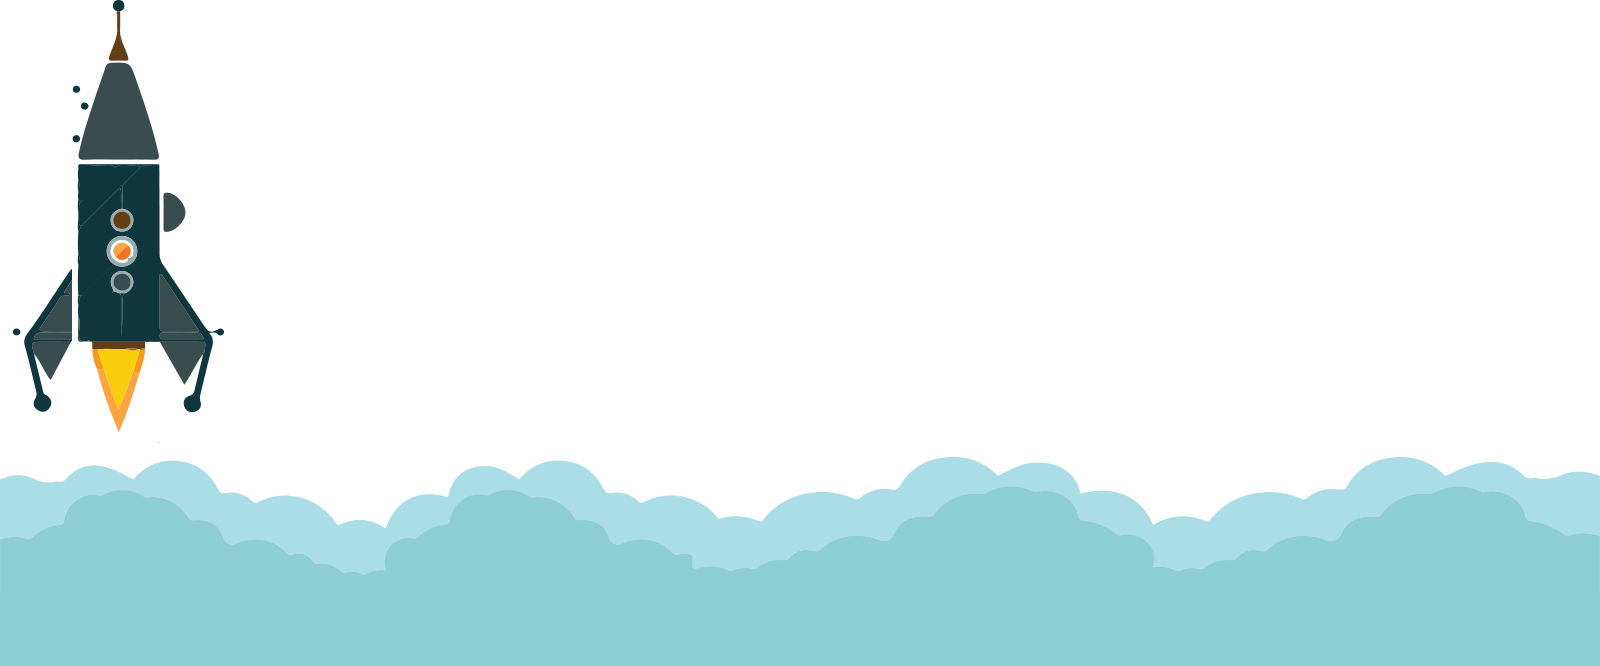
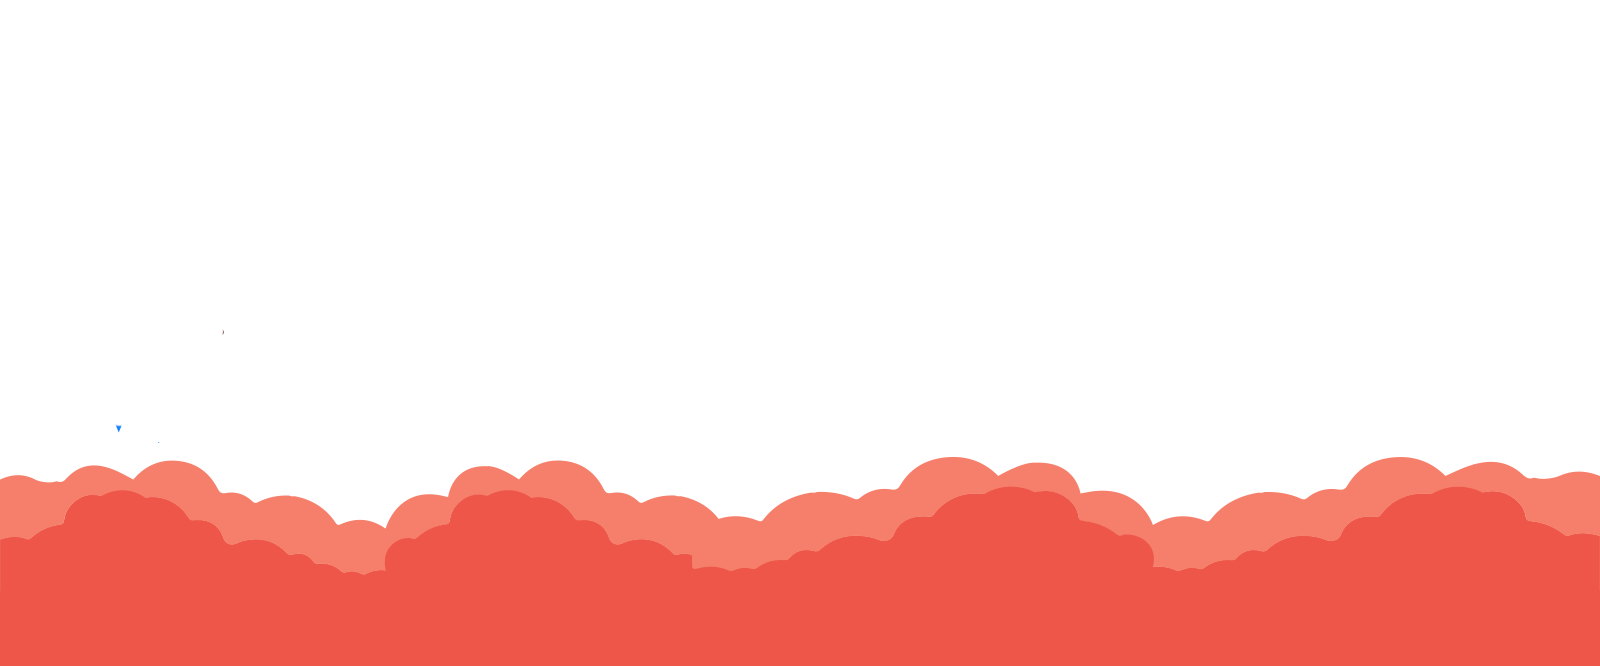
footer

diff --git a/index.html b/index.html
@@ -129,7 +129,7 @@ Music: www.hooksounds.com</p>
                     <div class="copyright-text text-center">
                         <p>t.yueji@gmail.com</p>
 						<p>&copy; Theresa McDonald 2018. All Rights Reserved.</p>
-                        <p>Theme template by <a target="_blank" href="http://www.themeum.com">Themeum</a></p>
+                        <p>Theme Template by <a target="_blank" href="http://www.themeum.com">Themeum</a></p>
                     </div>
                 </div>
             </div>

diff --git a/aboutus2.html b/aboutus2.html
@@ -285,7 +285,7 @@
                     <div class="copyright-text text-center">
                         <p>t.yueji@gmail.com</p>
 						<p>&copy; Theresa McDonald 2018. All Rights Reserved.</p>
-                        <p>Theme template by <a target="_blank" href="http://www.themeum.com">Themeum</a></p>
+                        <p>Theme Template by <a target="_blank" href="http://www.themeum.com">Themeum</a></p>
                     </div>
                 </div>
             </div>

diff --git a/portfolio.html b/portfolio.html
@@ -840,7 +840,7 @@
                     <div class="copyright-text text-center">
                         <p>t.yueji@gmail.com</p>
 						<p>&copy; Theresa McDonald 2018. All Rights Reserved.</p>
-                        <p>Theme template by <a target="_blank" href="http://www.themeum.com">Themeum</a></p>
+                        <p>Theme Template by <a target="_blank" href="http://www.themeum.com">Themeum</a></p>
                     </div>
                 </div>
             </div>

diff --git a/projects.html b/projects.html
@@ -161,7 +161,7 @@
                     <div class="copyright-text text-center">
                         <p>t.yueji@gmail.com</p>
 						<p>&copy; Theresa McDonald 2018. All Rights Reserved.</p>
-                        <p>Theme template by <a target="_blank" href="http://www.themeum.com">Themeum</a></p>
+                        <p>Theme Template by <a target="_blank" href="http://www.themeum.com">Themeum</a></p>
                     </div>
                 </div>
             </div>

diff --git a/project1.html b/project1.html
@@ -189,7 +189,7 @@
                     <div class="copyright-text text-center">
                         <p>t.yueji@gmail.com</p>
 						<p>&copy; Theresa McDonald 2018. All Rights Reserved.</p>
-                        <p>Designed by <a target="_blank" href="http://www.themeum.com">Themeum</a></p>
+                        <p>Theme Template by <a target="_blank" href="http://www.themeum.com">Themeum</a></p>
                     </div>
                 </div>
             </div>

diff --git a/project2.html b/project2.html
@@ -182,7 +182,7 @@
                     <div class="copyright-text text-center">
                         <p>t.yueji@gmail.com</p>
 						<p>&copy; Theresa McDonald 2018. All Rights Reserved.</p>
-                        <p>Designed by <a target="_blank" href="http://www.themeum.com">Themeum</a></p>
+                        <p>Theme Template by <a target="_blank" href="http://www.themeum.com">Themeum</a></p>
                     </div>
                 </div>
             </div>

diff --git a/css/main.css b/css/main.css
@@ -388,7 +388,7 @@ ul.sub-menu {
 
 #footer {
   padding-bottom: 10px;
-  background-image: url(../images/home/footer1.png);
+  background-image: url(../images/home/footer.png);
   background-repeat: repeat-x;
   background-position: bottom;
   background-size: contain;
